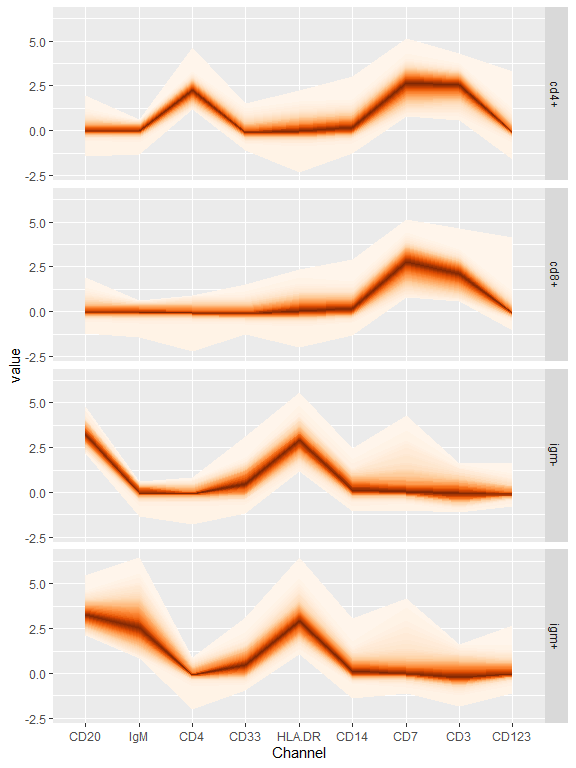
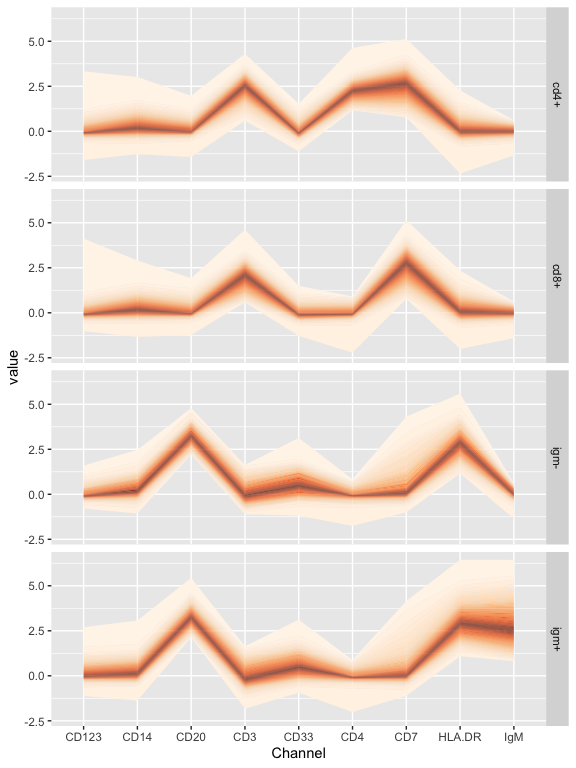
replace reshape2 with tidyr in readme example

diff --git a/README.md b/README.md
@@ -37,19 +37,19 @@ library(dplyr)
 #> The following objects are masked from 'package:base':
 #> 
 #>     intersect, setdiff, setequal, union
-library(reshape2)
+library(tidyr)
 
 data("refPhenoMat")
 data("refAnnots")
 
 bind_cols(refAnnots,
           as.data.frame(refPhenoMat)) %>%
-  melt(.,measure.vars=colnames(refPhenoMat),
-       variable.name='Channel') %>%
   filter(Cells %in% c('cd4+','cd8+','igm+','igm-')) %>%
+  gather("Channel","value",
+         any_of(colnames(refPhenoMat))) %>%
   ggplot(aes(x=Channel,y=value))+
   geom_fan()+
   facet_grid(Cells~.)
 ```
 
-![](man/figures/README-example-1.png)
+![](man/figures/README-example-1.png)<!-- -->
